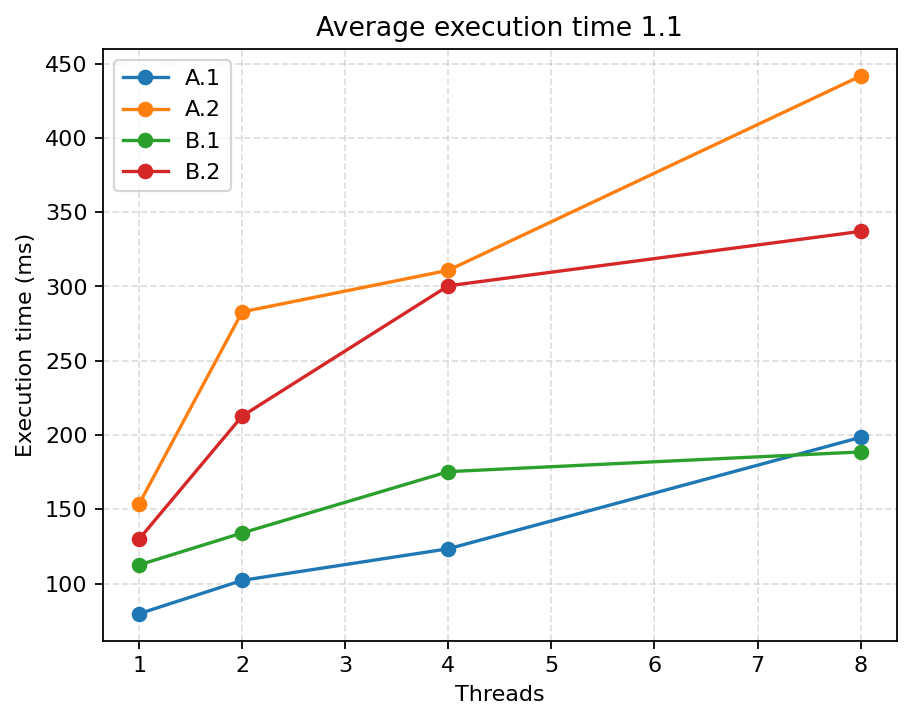
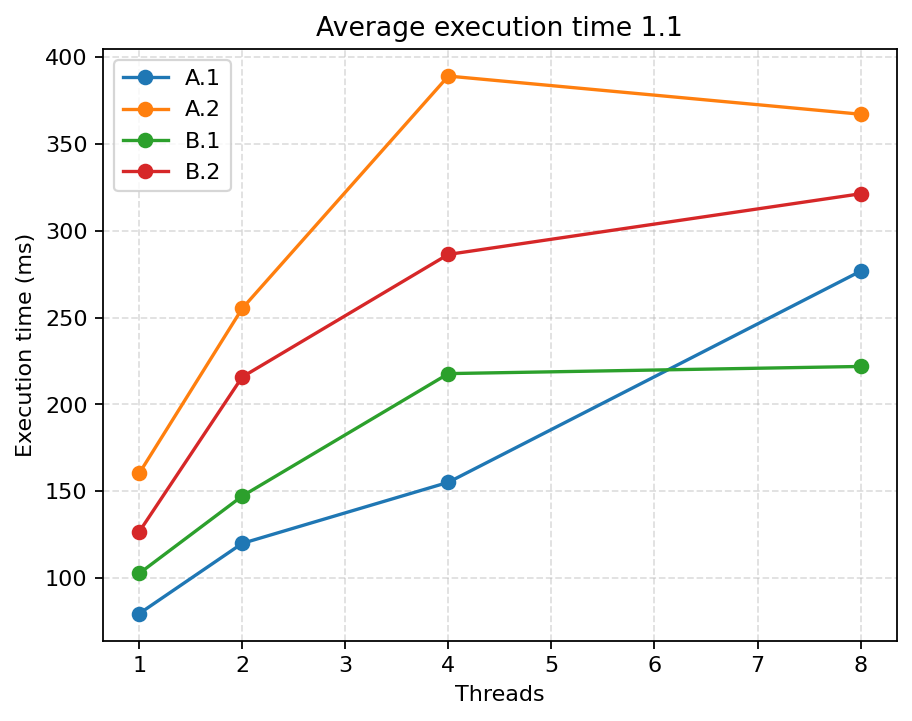
finish task1&report

diff --git a/lab3-skel/src/plot1.py b/lab3-skel/src/plot1.py
@@ -2,7 +2,7 @@ import re
 import matplotlib.pyplot as plt
 from pathlib import Path
 
-filename = "task1.2.out"
+filename = "task1.1.out"
 hdr = re.compile(r"^=== T=(\d+)\s+S=\w+\s+D=(\w+)\s+V=\d+\s+MIX=([\d:]+)\s+O=\d+\s+W=\d+\s+M=\d+\s+===$")
 meas = re.compile(r"^Measurement time:\s+(\d+)$")
 
@@ -42,7 +42,7 @@ for key in sorted(data.keys()):
 
 plt.xlabel("Threads")
 plt.ylabel("Execution time (ms)")
-plt.title(f"Average execution time 1.2")
+plt.title(f"Average execution time 1.1")
 plt.grid(True, linestyle="--", alpha=0.4)
 plt.legend()
 out = f"{Path(filename).stem}_summary.png"

diff --git a/lab3-skel/REPORT.md b/lab3-skel/REPORT.md
@@ -1,15 +1,31 @@
 # Lab 3 - Validating Linearizability of Lock-free Skiplists
 
-- Group X
-- Lastname, Firstname and Lastname, Firstname
+- Group x&zx
+- Li, Xin and Hong, Zixiang
 
 # 1. Measuring execution time
 
 ## 1.1 Measurement program
+Source files: 
+- `task1.1.sh`
+- `plot1.py`
 
-We modified the measurement program to ...
+![Task1.1 plot](src/task1.1_summary.png)
 
 ## 1.2 PDC experiments
+Source files: 
+- `task1.2.sh`
+- `plot1.py`
+
+![Task1.2 plot](src/task1.2_summary.png)
+
+### Observation
+For write-heavy cases we consistently see A.2 > B.2. For read-heavy cases, on PDC A.1 > B.1, while locally A.1 < B.1 at small thread counts and only crosses over when threads are large.
+
+### Possible explanations
+1. A Normal distribution concentrates keys, yielding more duplicates and a smaller effective working set, so `add/remove` bring shorter traversals, hence B.2 faster.
+2. For read-heavy mixes, a Normal distribution improves locality but also creates hot spots that disturb readers; on PDC the locality benefit dominates so B.1 is faster, whereas on the local machine at small thread counts hot-spot effects dominate, making A.1 < B.1 until T increases.
+
 
 # 2. Identify and validate linearization points
 
